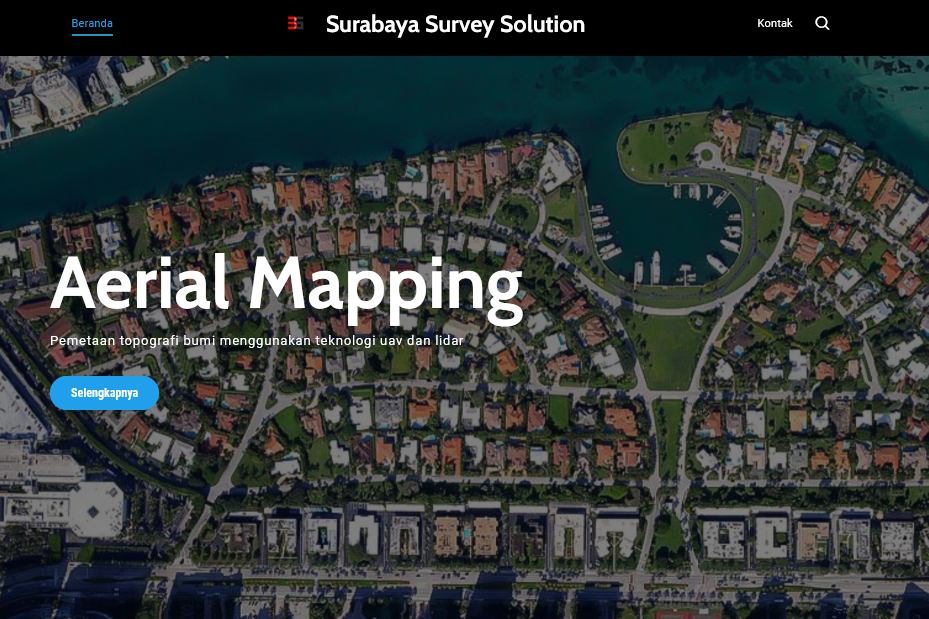
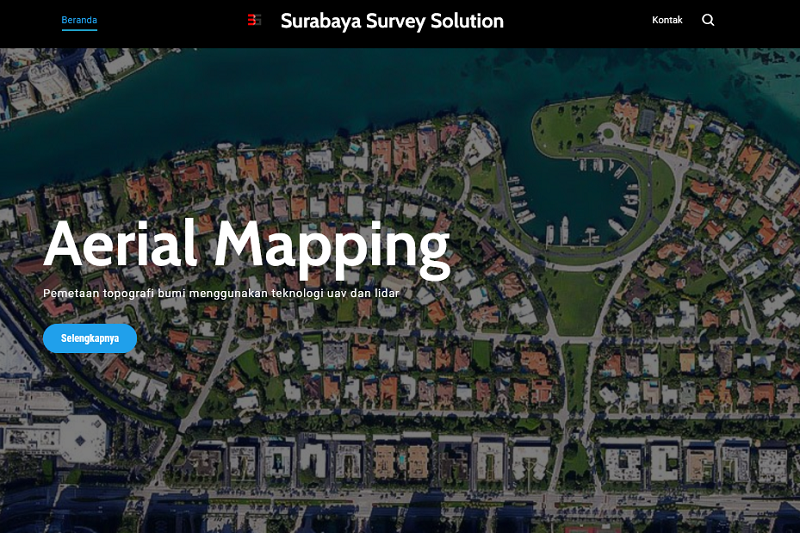
compress image

diff --git a/index.html b/index.html
@@ -30,15 +30,11 @@
                 <div class="uk-card">
                     <div class='uk-text-center uk-h1 uk-flex uk-flex-column'>
                         <div class="uk-flex-center">
-                    <div class="uk-inline">
-                        <div class='uk-background-default uk-padding-small hero-title'>Site</div>
-                        <div class='uk-background-primary uk-padding-small'>of</div>
-                    </div>                    
-                </div>
+                                <div class='uk-background-default uk-padding-small hero-title uk-inline'>Site</div>
+                                <div class='uk-background-primary uk-padding-small uk-inline'>of</div>
+                    </div>
                     <div class="uk-flex-center">    
-                        <div class="uk-inline">
-                            <div class='uk-background-default uk-padding-small hero-title'>GIS Tellus</div>
-                        </div>
+                            <div class='uk-background-default uk-padding-small hero-title uk-inline'>GIS Tellus</div>
                     </div>
                     </div>
                     <div class="uk-card-body uk-text-center uk-margin"><span>Building your business website based geographic information system.</span></div>
